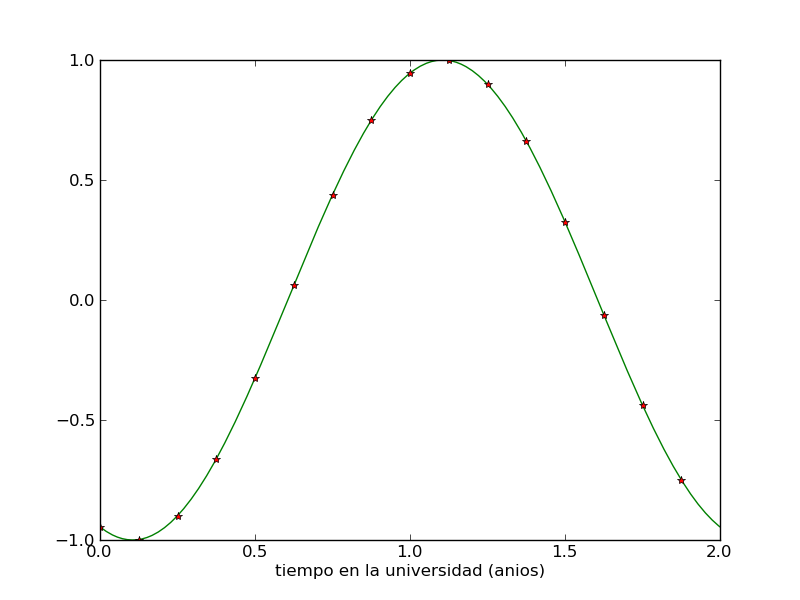
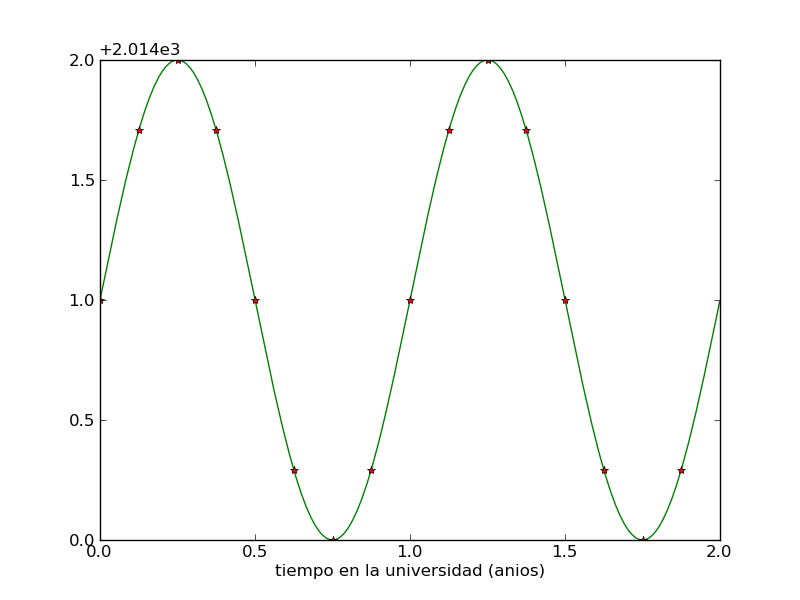
Correction: Problem 2

diff --git a/trigonometric.py b/trigonometric.py
@@ -2,7 +2,7 @@ import numpy as np
 import matplotlib.pyplot as plt
 #Declaramos una funcion que nos devuelva f(x) = sin(pi*t+C) (C = El anio que ingrese a la universidad = 2015)
 def f(t):
-    return np.sin(np.pi*t+ 2015)
+    return np.sin(2*np.pi*t)+ 2015
 #Definimos el rango de dos variables y el intervalo en el que cambian
 t1 = np.arange(0.0,2,0.001)
 t2 = np.arange(0.0,2,0.125)
